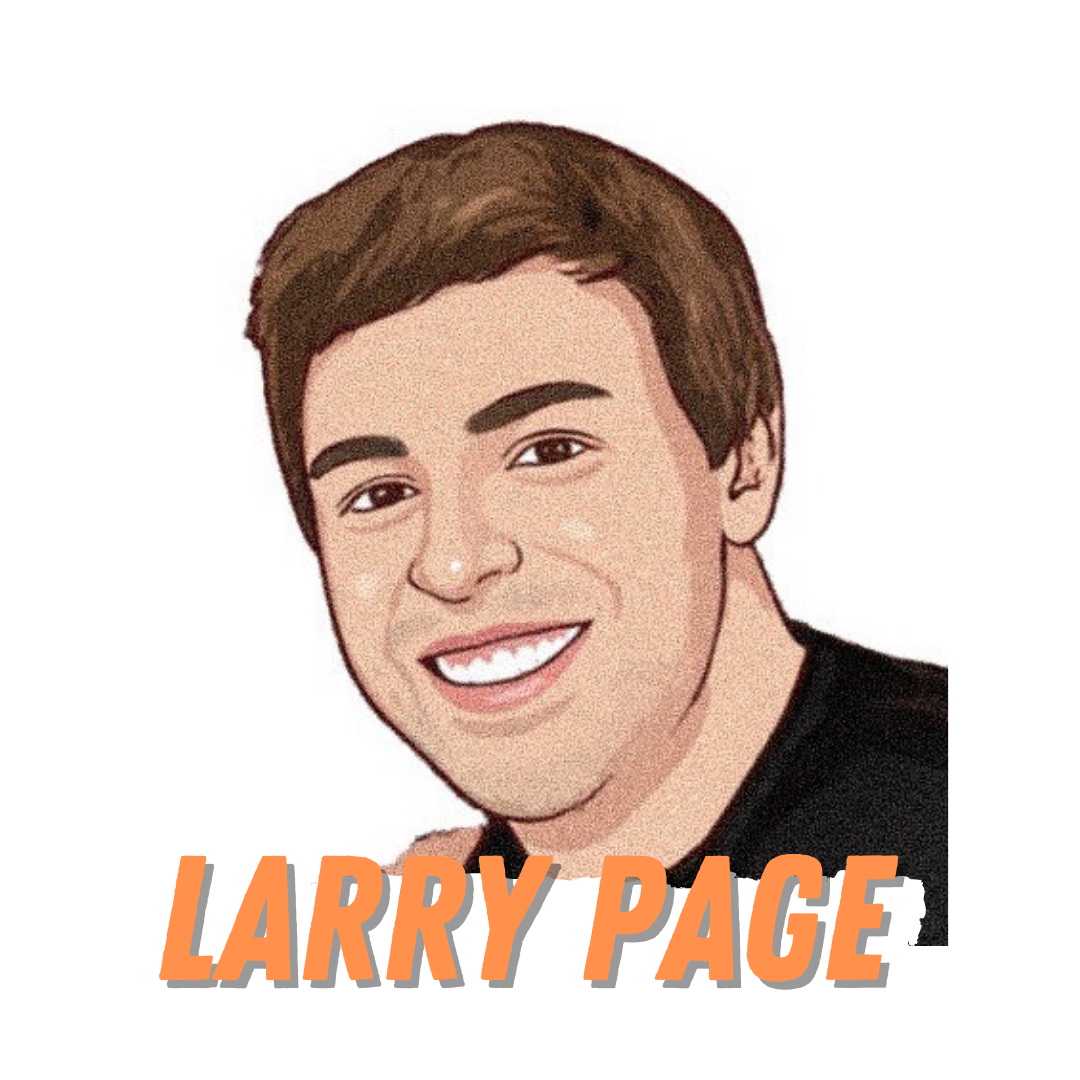
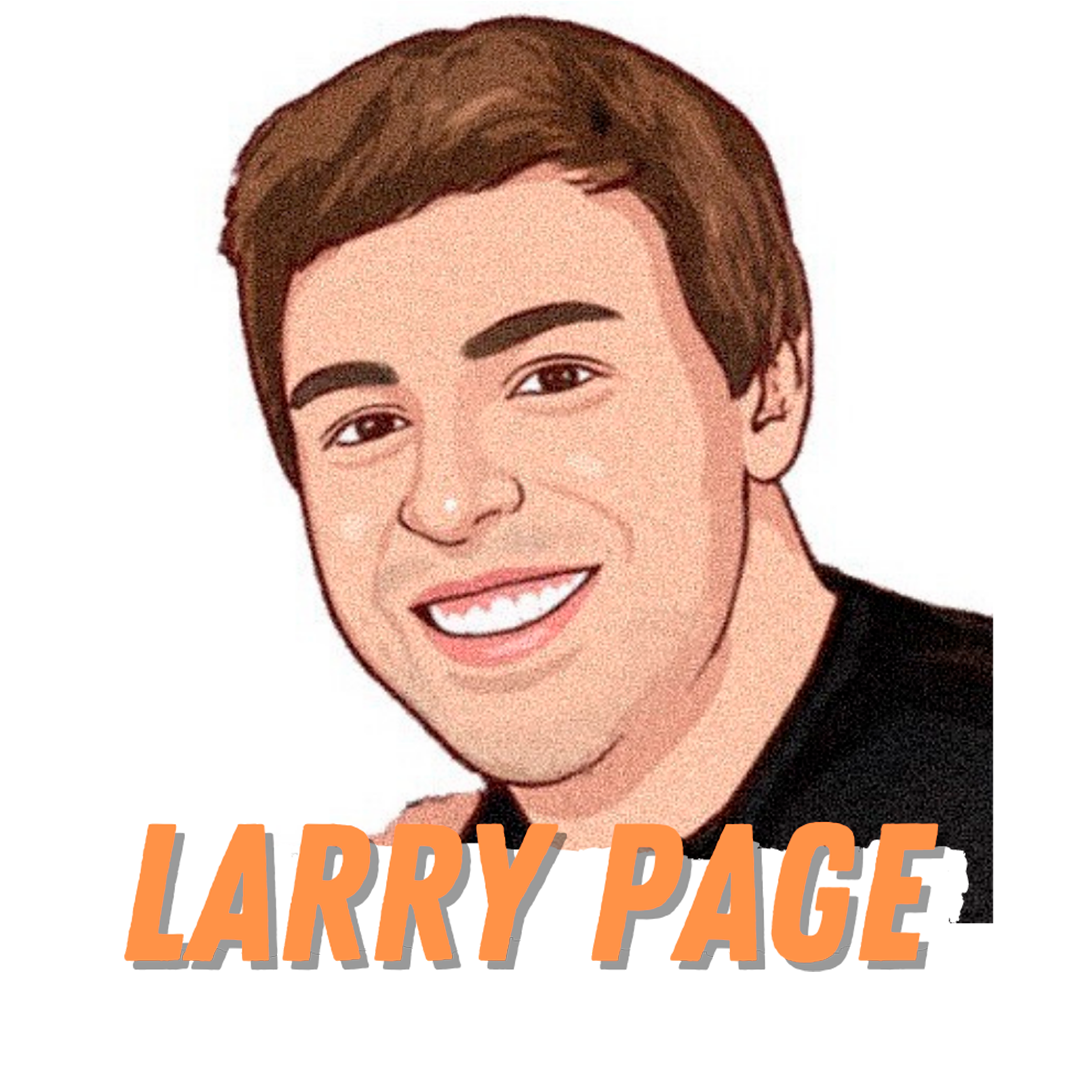
Add files via upload

diff --git a/PW- Personagens Informática/_pages/Mark_zuck.html b/PW- Personagens Informática/_pages/Mark_zuck.html
@@ -41,24 +41,25 @@
                 <section class="sidebar">
 
                     <div class="sidebar-img">
-                        <img src="../_imagens/pag_personagens_site_fi_5.png">
+                        <img src="../_imagens/pag_personagens_site_fi_4.png">
                     </div>
                 </section>
                 <section class="content">
                     <div class="content-title">
-                        <h1>Bill Gates</h1>
-                        <h3>Magnata</h3><br><br>
+                        <h1>Mark Zuckerberg</h1>
+                        <h3>Programador</h3><br><br>
                     </div>
                     <div class="content-info">
 
-                        <h4>Vida de Bill Gates</h4><br>
+                        <h4>Vida de Mark Zuckerberg</h4><br>
 
-                        <p>Gates nasceu em uma família de classe média de Seattle. Seu pai, William H. Gates, era advogado de grandes empresas, e sua mãe, Mary Maxwell Gates, foi professora da Universidade de Washington e diretora de bancos. Bill Gates e as suas duas irmãs, Kristanne e Libby, frequentaram as melhores escolas particulares de sua cidade natal, e Bill também participou do Movimento Escoteiro ainda quando jovem. Bill Gates, foi admitido na prestigiosa Universidade Harvard, (conseguindo 1 590 SATs dos 1 600 possíveis) mas abandonou os cursos de Matemática e Direito no terceiro ano, para dedicar-se à Microsoft.</p>
-                        <br><p>Trabalhou na Taito com o desenvolvimento de software básico para máquinas de jogos eletrônicos (fliperamas) até seus 16 anos. Também trabalhou como pesquisador visitante na University of Massachusetts at Amherst, UMASS, Estados Unidos, quando com 17 anos, desenvolveu junto com Paul Allen um software para leitura de fitas magnéticas, com informações de tráfego de veículos, em um chip Intel 8008. Com esse produto, Gates e Allen criaram uma empresa, a Traf-o-Data, porém os clientes desistiram do negócio quando descobriram a idade dos donos.</p>
-                        <br><p>Enquanto estudavam em Harvard, os jovens desenvolveram um interpretador da linguagem BASIC para um dos primeiros computadores pessoais a serem lançado nos Estados Unidos - o Altair 8800. Após um modesto sucesso na comercialização deste produto, Gates e Allen fundaram a Microsoft, uma das primeiras empresas no mundo focadas exclusivamente no mercado de programas para computadores pessoais ou PCs.</p>
-                        <br><p>Gates adquiriu ao longo dos anos uma fama de visionário (apostou no mercado de software na época em que o hardware era considerado muito mais valioso) e de negociador agressivo, chegando muitas vezes a ser acusado por concorrentes da Microsoft de utilizar práticas comerciais desleais.</p>
-                        <br><p>Nos anos 1980, a IBM, líder no mercado de grandes computadores, resolveu entrar no mercado da microinformática com o PC, porém faltava o Sistema Operacional. Para isso, fechou contrato com a recém-criada Microsoft. Todavia, a Microsoft não possuía o software ainda. O jovem Bill Gates foi a uma pequena empresa que havia desenvolvido o sistema para o processador da Intel e decidiu comprá-lo, pagou cerca de US$ 50 mil, personalizou o programa e vendeu-o por US$ 8 milhões, mantendo a licença do produto. Este viria a ser o MS-DOS.</p>
-                        
+                        <p>Mark Elliot Zuckerberg nasceu em White Plains, Condado de Westchester no estado de Nova York, filho de Kristen, uma psiquiatra, e de Edward, um dentista. Zuckerberg tem origem judaica, tendo um bar mitzvah, quando ele completou 13 anos, embora ele já tenha declarado ser ateu, em 2016, ao ser questionado se permanecia descrente, ele respondeu: "Não. Fui criado como judeu e depois passei por um período em questionei as coisas, mas agora acredito que a religião é muito importante.” Na escola onde estudava, a Ardsley High School, teve grande destaque em arte e cultura clássicas. Foi transferido para a Phillips Exeter Academy, onde ganhou vários prêmios em ciências da astronomia, matemática e física. Nos estudos clássicos, Mark aprendeu a ler e escrever francês, hebraico, latim e grego antigo e ainda pertenceu a equipe de esgrima. Em uma festa promovida por sua fraternidade durante seu segundo ano na Universidade Harvard, Zuckerberg conheceu a estudante de medicina Priscilla Chan, sua atual esposa. Em setembro de 2010, Zuckerberg convidou Chan, até então namorada, para morar em sua casa alugada em Palo Alto, Condado de Santa Clara no estado da Califórnia.</p>
+                        <br><p>Zuckerberg começou a usar computadores e a escrever software ainda adolescente no ensino médio. Seu pai lhe ensinou Atari Programação Básica em 1990 e, posteriormente, contratou o desenvolvedor de software David Newman para lhe dar aulas particulares. Newman não hesitava em chamá-lo de "prodígio", acrescentando que era "duro para ficar à frente dele." Zuckerberg também fez um curso de pós-graduação no assunto no Mercy College perto de sua casa enquanto ele ainda estava no colégio. Ele gostava de criar programas de computador, especialmente as ferramentas de comunicação e jogos. Em um desses programas que criou, surgiu o “ZuckNet”, a qual permitia que todos os computadores entre a casa e o consultório odontológico do seu pai pudessem se comunicar usando o ping para o outro. No que pode ser considerado uma versão simplificada do AOL Instant Messenger, que foi lançado no ano seguinte.</p>
+                        <br><p>Durante alguns anos Zuckerberg trabalhou em uma empresa chamada Intelligent Media Group, onde construiu um leitor de música chamado "Synapse Media Player" que usa inteligência artificial para aprender hábitos de escuta do usuário e recebeu a classificação de 3/5 da PC Magazine. A Microsoft e AOL tentaram comprar o Synapse e contratar Zuckerberg, porém ele preferiu se matricular na Universidade Harvard em setembro de 2002.</p>
+                        <br><p>Até ele começar a ter aulas em Harvard, ele já tinha conseguido a reputação de um prodígio de programação. Mark estudou psicologia e Ciência da Computação e era membro da Alpha Epsilon Pi, uma fraternidade judaica. Em seu segundo ano, ele escreveu um programa chamado CourseMatch, que permitia que os usuários jogassem Atari Asteroids 1968 entre si, sem conexões, cabos ou Internet, o que acabava também por ajudá-los a formar grupos de estudo. Pouco tempo depois criou um programa bem diferente, inicialmente chamado Facemash que permitia que os alunos escolhessem entre duas garotas, qual seria a mais bonita("sexy"). De acordo com o colega de Zuckerberg, Arie Hasit, ele construiu o site para se divertir. Hasit explica: "Tínhamos livros chamados face books, que incluíam os nomes e fotografias de todos que viviam no dormitório estudantil. Inicialmente, ele construiu um site e colocou duas fotos de dois homens e de duas garotas. Os visitantes do site tinham de escolher quem estava "quente" e de acordo com os votos haveria um ranking."</p>
+                        <br><p>O site estava indo muito bem, mas de manhã a universidade desativou o site porque sua popularidade tinha sobrecarregado o servidor de Harvard e impedido que os estudantes acessassem a web. Além disso, muitos alunos reclamaram que suas fotos estavam sendo manipuladas no Photoshop. Zuckerberg pediu desculpas publicamente e, após o incidente, o estudante publicou artigos informando que seu site estava "completamente inadequado".</p>
+                        <br><p>No entanto, os alunos já tinham solicitado para que a universidade desenvolvesse um web site semelhante que incluísse fotos e detalhes de contato para fazerem parte da rede de informática da faculdade. De acordo com Hasit. "Mark ouviu esses argumentos e decidiu que se a universidade não fizesse, ele iria para um local que seria melhor que a universidade para construir o site".</p>
+
                     </div>
                 </section>
             </div>

diff --git a/PW- Personagens Informática/_pages/George_Boole.html b/PW- Personagens Informática/_pages/George_Boole.html
@@ -41,23 +41,23 @@
                 <section class="sidebar">
 
                     <div class="sidebar-img">
-                        <img src="../_imagens/pag_personagens_site_fi_5.png">
+                        <img src="../_imagens/pag_personagens_site_fi_3.png">
                     </div>
                 </section>
                 <section class="content">
                     <div class="content-title">
-                        <h1>Bill Gates</h1>
-                        <h3>Magnata</h3><br><br>
+                        <h1>George Boole</h1>
+                        <h3>Matemático</h3><br><br>
                     </div>
                     <div class="content-info">
 
-                        <h4>Vida de Bill Gates</h4><br>
+                        <h4>Vida de George Boole</h4><br>
 
-                        <p>Gates nasceu em uma família de classe média de Seattle. Seu pai, William H. Gates, era advogado de grandes empresas, e sua mãe, Mary Maxwell Gates, foi professora da Universidade de Washington e diretora de bancos. Bill Gates e as suas duas irmãs, Kristanne e Libby, frequentaram as melhores escolas particulares de sua cidade natal, e Bill também participou do Movimento Escoteiro ainda quando jovem. Bill Gates, foi admitido na prestigiosa Universidade Harvard, (conseguindo 1 590 SATs dos 1 600 possíveis) mas abandonou os cursos de Matemática e Direito no terceiro ano, para dedicar-se à Microsoft.</p>
-                        <br><p>Trabalhou na Taito com o desenvolvimento de software básico para máquinas de jogos eletrônicos (fliperamas) até seus 16 anos. Também trabalhou como pesquisador visitante na University of Massachusetts at Amherst, UMASS, Estados Unidos, quando com 17 anos, desenvolveu junto com Paul Allen um software para leitura de fitas magnéticas, com informações de tráfego de veículos, em um chip Intel 8008. Com esse produto, Gates e Allen criaram uma empresa, a Traf-o-Data, porém os clientes desistiram do negócio quando descobriram a idade dos donos.</p>
-                        <br><p>Enquanto estudavam em Harvard, os jovens desenvolveram um interpretador da linguagem BASIC para um dos primeiros computadores pessoais a serem lançado nos Estados Unidos - o Altair 8800. Após um modesto sucesso na comercialização deste produto, Gates e Allen fundaram a Microsoft, uma das primeiras empresas no mundo focadas exclusivamente no mercado de programas para computadores pessoais ou PCs.</p>
-                        <br><p>Gates adquiriu ao longo dos anos uma fama de visionário (apostou no mercado de software na época em que o hardware era considerado muito mais valioso) e de negociador agressivo, chegando muitas vezes a ser acusado por concorrentes da Microsoft de utilizar práticas comerciais desleais.</p>
-                        <br><p>Nos anos 1980, a IBM, líder no mercado de grandes computadores, resolveu entrar no mercado da microinformática com o PC, porém faltava o Sistema Operacional. Para isso, fechou contrato com a recém-criada Microsoft. Todavia, a Microsoft não possuía o software ainda. O jovem Bill Gates foi a uma pequena empresa que havia desenvolvido o sistema para o processador da Intel e decidiu comprá-lo, pagou cerca de US$ 50 mil, personalizou o programa e vendeu-o por US$ 8 milhões, mantendo a licença do produto. Este viria a ser o MS-DOS.</p>
+                        <p> George Boole nasceu em Lincoln, na Inglaterra no ano de 1815. Seu pai, Jhon Boole, era um sapateiro pobre, e por não se sentir satisfeito com seu trabalho, ele passava o seu tempo livre estudando Matemática e Astronomia.</p>
+                        <br><p>Mas como ele vinha de uma família pobre, George estudou em uma escola pública que não ensinava o Latim, língua fundamental na época. Então com a ajuda de um livreiro local ele aprendeu a falar Latim e o Grego, e com quatorze anos ele já era fluente nesses dois idiomas.</p>
+                        <br><p>Depois disso o pai dele Jhon Boole acabou perdendo seu trabalho como sapateiro, então George aos 16 anos começou a trabalhar como professor assistente, e ficou lá por 4 anos. Depois desses 4 anos, em 1935, com apenas 20 anos Bool criou sua própria escola e decidiu se dedicar aos estudos em Matemática. Aos 25 anos de idade ele publicou mais de 50 artigos sobre álgebra e começou a se tornar conhecido logo após um trabalho sobre métodos algébricos, que lhe rendeu uma medalha da Royal Society. </p>
+                        <br><p>Depois de alguns anos estudando muito e publicando diversos artigos relacionados a matemática, em 1947 George publicou um pequeno livro chamado “A Análise Matemática da Lógica George Boole”.</p>
+                        <br><p>Em 1954, George publicou sua obra prima “Uma investigação das Leis do Pensamento”, onde estabeleceu regras sobre probabilidade, e deu início a lógica conhecida como “Álgebra Booleana” que é aplicada na computação até os dias de hoje. Depois disso ele ficou conhecido como gênio, virou membro da Royal Society, além de receber honras e reconhecimentos da universidade de Oxford e diversas outras. Depois disso ele continuou estudando matemática, publicando artigos e trabalhos e compartilhando conhecimento até o ano de sua morte em 1864. Até hoje, George é considerado um gênio da matemática por diversos estudiosos, não à toa que ele criou uma lógica que veio a ser utilizada cerca de 100 anos depois para novas tecnologias.</p>
                         
                     </div>
                 </section>

diff --git a/PW- Personagens Informática/_pages/Larry_Page.html b/PW- Personagens Informática/_pages/Larry_Page.html
@@ -41,23 +41,23 @@
                 <section class="sidebar">
 
                     <div class="sidebar-img">
-                        <img src="../_imagens/pag_personagens_site_fi_5.png">
+                        <img src="../_imagens/pag_personagens_site_fi_2.png">
                     </div>
                 </section>
                 <section class="content">
                     <div class="content-title">
-                        <h1>Bill Gates</h1>
-                        <h3>Magnata</h3><br><br>
+                        <h1>Larry Page</h1>
+                        <h3>Cientista da Computação</h3><br><br>
                     </div>
                     <div class="content-info">
 
-                        <h4>Vida de Bill Gates</h4><br>
+                        <h4>Vida de Larry Page</h4><br>
 
-                        <p>Gates nasceu em uma família de classe média de Seattle. Seu pai, William H. Gates, era advogado de grandes empresas, e sua mãe, Mary Maxwell Gates, foi professora da Universidade de Washington e diretora de bancos. Bill Gates e as suas duas irmãs, Kristanne e Libby, frequentaram as melhores escolas particulares de sua cidade natal, e Bill também participou do Movimento Escoteiro ainda quando jovem. Bill Gates, foi admitido na prestigiosa Universidade Harvard, (conseguindo 1 590 SATs dos 1 600 possíveis) mas abandonou os cursos de Matemática e Direito no terceiro ano, para dedicar-se à Microsoft.</p>
-                        <br><p>Trabalhou na Taito com o desenvolvimento de software básico para máquinas de jogos eletrônicos (fliperamas) até seus 16 anos. Também trabalhou como pesquisador visitante na University of Massachusetts at Amherst, UMASS, Estados Unidos, quando com 17 anos, desenvolveu junto com Paul Allen um software para leitura de fitas magnéticas, com informações de tráfego de veículos, em um chip Intel 8008. Com esse produto, Gates e Allen criaram uma empresa, a Traf-o-Data, porém os clientes desistiram do negócio quando descobriram a idade dos donos.</p>
-                        <br><p>Enquanto estudavam em Harvard, os jovens desenvolveram um interpretador da linguagem BASIC para um dos primeiros computadores pessoais a serem lançado nos Estados Unidos - o Altair 8800. Após um modesto sucesso na comercialização deste produto, Gates e Allen fundaram a Microsoft, uma das primeiras empresas no mundo focadas exclusivamente no mercado de programas para computadores pessoais ou PCs.</p>
-                        <br><p>Gates adquiriu ao longo dos anos uma fama de visionário (apostou no mercado de software na época em que o hardware era considerado muito mais valioso) e de negociador agressivo, chegando muitas vezes a ser acusado por concorrentes da Microsoft de utilizar práticas comerciais desleais.</p>
-                        <br><p>Nos anos 1980, a IBM, líder no mercado de grandes computadores, resolveu entrar no mercado da microinformática com o PC, porém faltava o Sistema Operacional. Para isso, fechou contrato com a recém-criada Microsoft. Todavia, a Microsoft não possuía o software ainda. O jovem Bill Gates foi a uma pequena empresa que havia desenvolvido o sistema para o processador da Intel e decidiu comprá-lo, pagou cerca de US$ 50 mil, personalizou o programa e vendeu-o por US$ 8 milhões, mantendo a licença do produto. Este viria a ser o MS-DOS.</p>
+                        <p>Larry é filho de um cientista da computação da Universidade Estadual de Michigan, Dr. Carl Victor Page, e de Gloria Page. Sua paixão por computadores começou cedo, aos seis anos. Desde então todos seus estudos foram direcionados a essa área. Frequentou a East Lansing High School, e seguindo os passos do pai, se formou na Universidade de Michigan em Engenharia da Computação. Durante seu doutorado na Universidade de Stanford juntou-se a Sergey Brin, e juntos desenvolveram e fundaram o Google em 1998 deixando a Universidade de Stanford.</p>
+                        <br><p>Larry é um membro do Comitê da Consulta Nacional (NAC) para a Universidade de Engenharia de Michigan, foi reconhecido como o inovador do ano pela revista Research and Development Magazine, e foi eleito membro da Academia Nacional de Engenharia dos Estados Unidos.</p>
+                        <br><p>Segundo a revista Forbes, em 2005, e com apenas 32 anos, Larry Page já tinha uma riqueza estimada em 10,2 bilhões de dólares, tornando-se o 4º homem mais rico do mundo. Em 2010, de acordo com a mesma fonte, o diretor, com 36,5 bilhões, já assume a 24ª posição do ranking, juntamente com Sergey Brin.</p>
+                        <br><p>Em 2015, desenvolveu a Alphabet Inc juntamente com Sergey Brin, empresa no qual tomará controle do Google e suas subsidiárias, o projeto é focado em fazer que o Google possa se expandir sem ter de sempre utilizar o nome "Google".</p>
+                        <br><p>Ao deixar o cargo de CEO do Google em 10 de agosto de 2015, Sundar Pichai passa a assumir o comando da empresa, e Larry passou a controlar a Alphabet.</p>
                         
                     </div>
                 </section>

diff --git a/PW- Personagens Informática/_pages/index.html b/PW- Personagens Informática/_pages/index.html
@@ -98,7 +98,7 @@
                             <div class="pers-card_info_div">
                                 <div class="pers-card_info">
                                     <h2>Karen Sparck</h2>
-                                    <p>Karen Spärck Jones FBA foi uma cientista da computação britânica que foi responsável pela criação do conceito da frequência inversa de documentos, uma tecnologia que sustenta os mecanismos de buscas mais modernos.</p>
+                                    <p>Jean Sammet foi a primeira presidente mulher da ACM, criadora da primeira linguagem de computador usada para cálculo direto da matemática, o FORMAC.</p>
                                 </div>
                             </div>
                         </div>
@@ -109,7 +109,7 @@
                             <div class="pers-card_info_div">
                                 <div class="pers-card_info">
                                     <h2>Larry Page</h2>
-                                    <p>Carol Shaw foi a primeira desenvolvedora de games da história e conhecida por ser criadora do famoso jogo River Raid.</p>
+                                    <p>Lawrence Edward Page, mais conhecido como Larry Page é um cientista da computação e empresário de internet norte-americano conhecido por ser o co-fundador do Google, junto com Sergey Brin.</p>
                                 </div>
                             </div>
                         </div>
@@ -120,7 +120,7 @@
                             <div class="pers-card_info_div">
                                 <div class="pers-card_info">
                                     <h2>George Boole</h2>
-                                    <p>Carol Shaw foi a primeira desenvolvedora de games da história e conhecida por ser criadora do famoso jogo River Raid.</p>
+                                    <p>George Boole foi um matemático inglês criador da álgebra booleana, um recurso fundamental para o desenvolvimento da computação moderna.</p>
                                 </div>
                             </div>
                         </div>

diff --git a/PW- Personagens Informática/_css/contact.css b/PW- Personagens Informática/_css/contact.css
@@ -20,6 +20,11 @@
     border: none;
     outline: none;
     font-size: 15px;
+    border-radius: 7px;
+    resize: none;
+}
+.input-login::placeholder {
+    font-family: sans-serif;
 }
 
 .buton-login{
